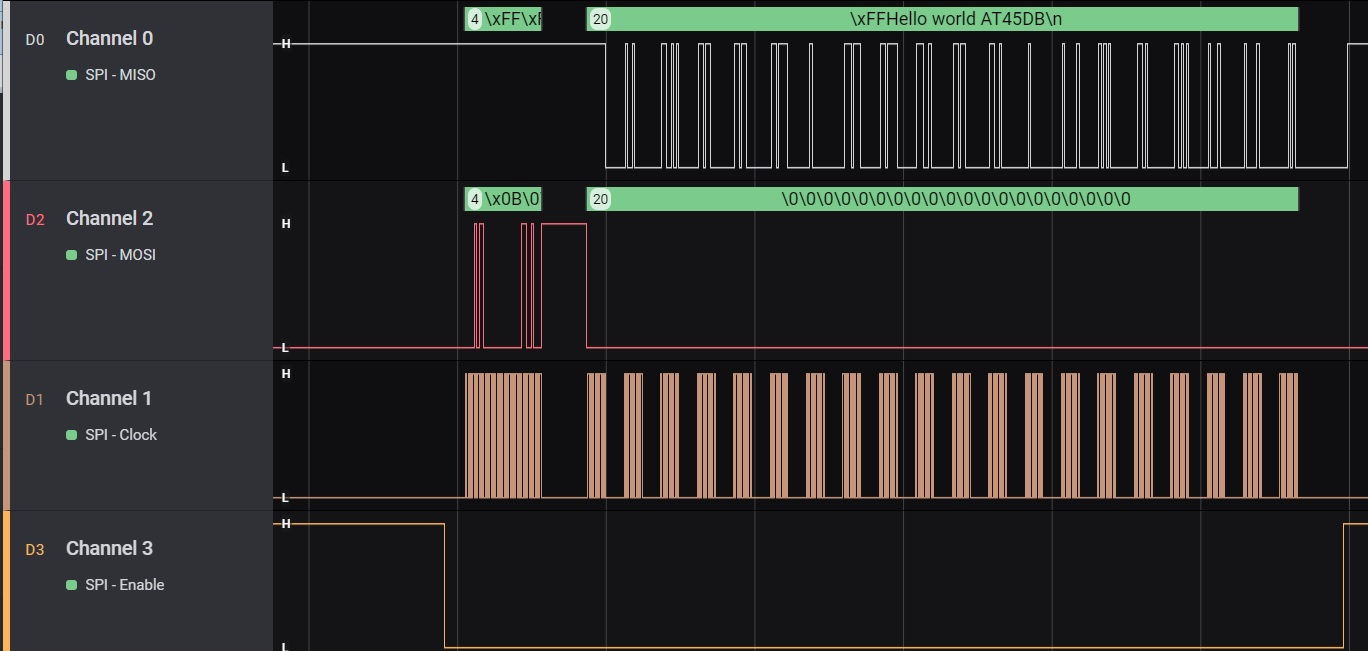
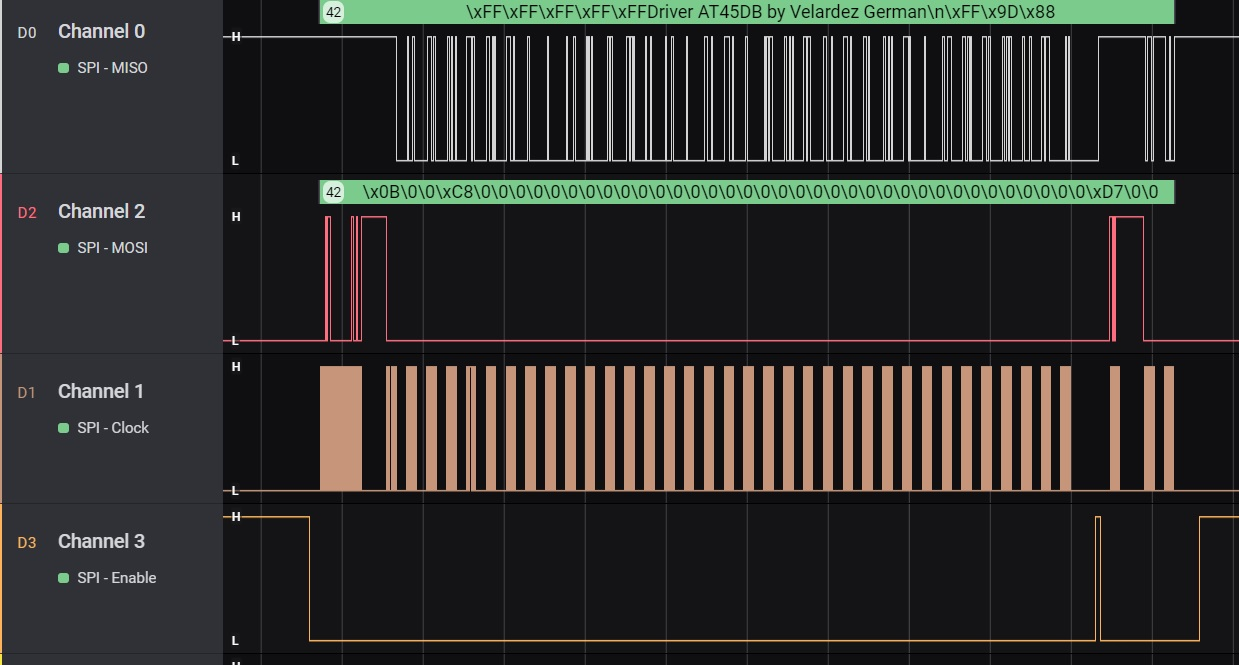
update imgs

Changed region(s): [[0.1533, 0.0, 1.0, 1.0], [0.0, 0.0, 0.1227, 1.0]]

diff --git a/Core/Src/AT45DB041.c b/Core/Src/AT45DB041.c
@@ -173,6 +173,16 @@ PRIVATE uint8_t at45db_is_ready(){
 }
 
 
+PRIVATE void at45db_wait(uint16_t timeout){
+        uint8_t ret = at45db_is_ready();
+        while(!(ret = at45db_is_ready) || (timeout != 0) ){
+                timeout --;
+                delay(1);
+        }
+}
+
+
+
 
 PRIVATE uint8_t  at45db_check_id(){
         uint8_t ret = 0;
@@ -205,12 +215,8 @@ PRIVATE uint8_t  at45db_check_id(){
 
 uint8_t is_ready(){
         uint8_t ret = at45db_is_ready();
-        uint32_t timeout = 500;
-        while(!(ret = at45db_is_ready) || (timeout != 0) ){
-                timeout --;
-                delay(1);
-        }
-                ret = at45db_check_id();
+        at45db_wait(500);
+        ret = at45db_check_id();
         return ret;
 }
 
@@ -228,6 +234,7 @@ uint8_t write_buffer1(uint8_t* data,uint16_t len, uint16_t pos){
         spi_write(data,len);
 
         gpio_write(1);
+        at45db_wait(500);
 
 
         return ret;
@@ -250,6 +257,8 @@ uint8_t read_buffer1(uint8_t* data,uint16_t len, uint16_t pos){
         spi_read(data,len);
 
         gpio_write(1);
+        at45db_wait(500);
+
 
 
         return ret;
@@ -270,6 +279,8 @@ uint8_t write_page(uint8_t* data, uint16_t len, uint16_t pag,uint16_t pos){
         spi_write(&cmd,4);
         spi_read(data,len);
         gpio_write(1);
+        at45db_wait(500);
+
         return ret;        
 }
 
@@ -288,6 +299,9 @@ uint8_t read_page(uint8_t* data, uint16_t len, uint16_t pag,uint16_t pos){
         spi_write(&cmd,4);
         spi_read(data,len);
         gpio_write(1);
+        //wait
+        at45db_wait(500);
+
         return ret;        
 }
 

diff --git a/Core/Src/main.c b/Core/Src/main.c
@@ -107,12 +107,11 @@ uint8_t  buffer1[50]={0};
   /* Infinite loop */
   /* USER CODE BEGIN WHILE */
   
-  #define MSG       "Hello world AT45DB\n"
+  #define MSG       "Driver  AT45DB by Velardez German\n"
   #define MSG_LEN    strlen(MSG) +1
 
   #define BUFFER_FLAG          (0)
   HAL_UART_Transmit(&huart2,INIT_MSG,SIZE_MSG,1000);
-  HAL_Delay(2000);
   ready = is_ready();
   sprintf(buffer," device %s \n",(ready)?"ready":"bussy");
   HAL_UART_Transmit(&huart2,buffer,strlen(buffer),1000);
@@ -122,11 +121,9 @@ uint8_t  buffer1[50]={0};
   HAL_Delay(100);
   read_buffer1(buffer1,MSG_LEN,0);
   #else
-
   write_page(MSG,MSG_LEN,100,0);
   HAL_Delay(100);
   read_page(buffer1,MSG_LEN,100,0);
-
   #endif
 
     
